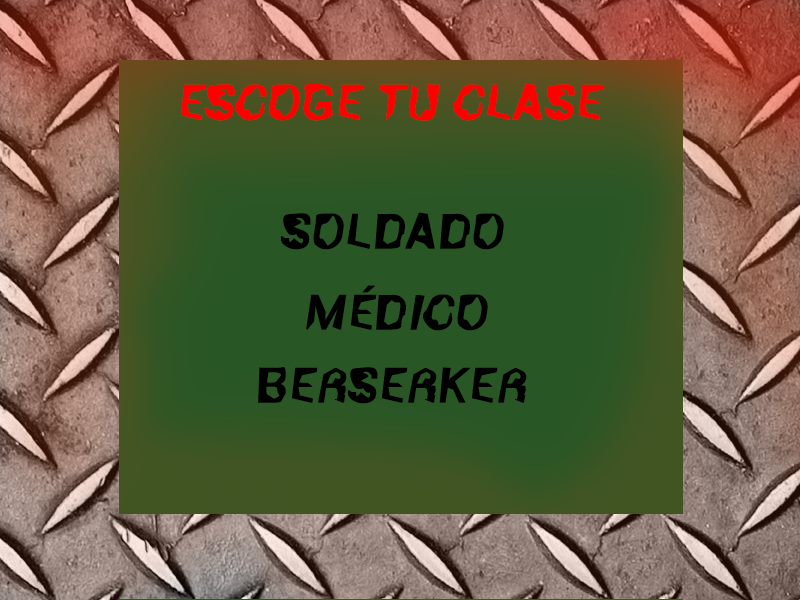
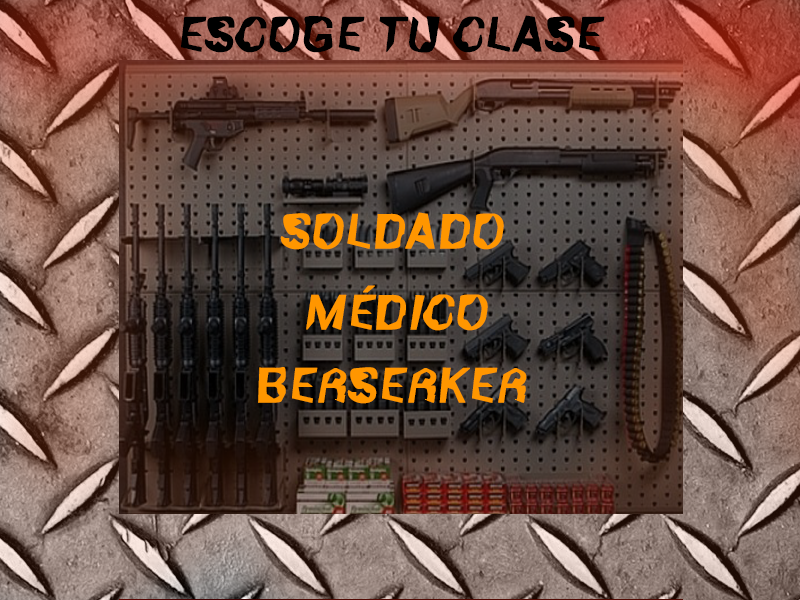
botones y fondos

diff --git a/src/assets/images/mapa.js b/src/assets/images/mapa.js
@@ -1,0 +1,45 @@
+(function(name,data){
+ if(typeof onTileMapLoaded === 'undefined') {
+  if(typeof TileMaps === 'undefined') TileMaps = {};
+  TileMaps[name] = data;
+ } else {
+  onTileMapLoaded(name,data);
+ }
+ if(typeof module === 'object' && module && module.exports) {
+  module.exports = data;
+ }})("mapa",
+{ "height":50,
+ "infinite":false,
+ "layers":[
+        {
+         "data":[1, 1, 1, 1, 1, 1, 1, 1, 1, 1, 1, 1, 1, 1, 1, 1, 1, 1, 1, 1, 1, 1, 1, 1, 1, 1, 1, 1, 1, 1, 1, 1, 1, 1, 1, 1, 1, 1, 1, 1, 1, 1, 1, 1, 1, 1, 1, 1, 1, 1, 1, 65, 66, 67, 68, 69, 70, 71, 72, 73, 74, 65, 66, 67, 68, 69, 70, 71, 72, 73, 1, 65, 66, 67, 68, 69, 70, 71, 72, 73, 74, 65, 66, 67, 68, 69, 70, 71, 72, 73, 74, 65, 66, 67, 68, 69, 70, 71, 72, 1, 1, 75, 76, 77, 78, 79, 80, 81, 82, 83, 84, 75, 76, 77, 78, 79, 80, 81, 82, 83, 1, 75, 76, 77, 78, 79, 80, 81, 82, 83, 84, 75, 76, 77, 78, 79, 80, 81, 82, 83, 84, 75, 76, 77, 78, 79, 80, 81, 82, 1, 1, 85, 86, 87, 88, 89, 90, 91, 92, 93, 94, 85, 86, 87, 88, 89, 90, 91, 92, 93, 1, 85, 86, 87, 88, 89, 90, 91, 92, 93, 94, 85, 86, 87, 88, 89, 90, 91, 92, 93, 94, 1, 1, 87, 88, 89, 90, 91, 92, 1, 1, 95, 96, 97, 98, 99, 100, 101, 102, 103, 104, 95, 96, 97, 98, 99, 100, 101, 102, 103, 1, 95, 96, 97, 98, 99, 100, 1, 1, 103, 104, 95, 96, 97, 98, 99, 100, 101, 102, 103, 104, 1, 1, 97, 98, 99, 100, 101, 102, 1, 1, 105, 106, 107, 108, 109, 110, 111, 112, 113, 114, 1, 1, 107, 108, 109, 110, 111, 112, 113, 1, 105, 106, 107, 108, 109, 110, 1, 1, 113, 114, 105, 106, 107, 108, 109, 110, 111, 112, 113, 114, 105, 106, 107, 108, 109, 110, 111, 112, 1, 1, 115, 116, 117, 118, 119, 120, 121, 122, 123, 124, 1, 1, 117, 118, 119, 120, 121, 122, 123, 1, 115, 116, 117, 118, 119, 120, 121, 122, 123, 124, 115, 116, 117, 118, 119, 120, 121, 122, 123, 124, 115, 116, 117, 118, 119, 120, 121, 122, 1, 1, 65, 66, 67, 68, 69, 70, 71, 72, 73, 74, 65, 66, 67, 68, 69, 70, 71, 72, 73, 1, 65, 66, 67, 68, 69, 70, 71, 72, 73, 74, 65, 66, 67, 68, 69, 70, 71, 72, 73, 74, 65, 66, 67, 68, 69, 70, 71, 72, 1, 1, 75, 76, 77, 78, 79, 80, 81, 82, 83, 84, 75, 76, 77, 78, 79, 80, 81, 82, 83, 1, 75, 76, 77, 78, 79, 80, 81, 82, 83, 84, 75, 76, 77, 78, 79, 80, 81, 82, 83, 84, 75, 76, 77, 78, 79, 80, 81, 82, 1, 1, 85, 86, 87, 88, 89, 90, 91, 92, 93, 94, 85, 86, 87, 88, 89, 90, 91, 92, 93, 1, 85, 86, 87, 88, 89, 90, 91, 92, 93, 94, 85, 86, 87, 88, 89, 90, 91, 92, 93, 94, 85, 86, 87, 88, 89, 90, 91, 92, 1, 1, 1, 1, 1, 1, 1, 1, 1, 1, 1, 1, 1, 1, 97, 98, 99, 1, 1, 1, 1, 1, 95, 96, 97, 1, 1, 1, 1, 1, 1, 1, 1, 1, 1, 1, 1, 1, 1, 1, 1, 1, 1, 1, 1, 1, 1, 100, 101, 102, 1, 1, 105, 106, 107, 108, 109, 110, 111, 112, 113, 114, 105, 106, 107, 108, 109, 110, 111, 112, 113, 114, 105, 106, 107, 1, 109, 110, 111, 112, 113, 114, 105, 106, 1, 1, 1, 1, 1, 112, 113, 114, 105, 106, 107, 108, 109, 110, 111, 112, 1, 1, 115, 116, 117, 118, 119, 120, 121, 122, 123, 124, 115, 116, 117, 118, 119, 120, 121, 122, 123, 124, 115, 116, 117, 1, 119, 120, 121, 122, 123, 124, 115, 116, 1, 1, 1, 1, 1, 122, 123, 124, 115, 116, 117, 118, 119, 120, 121, 122, 1, 1, 65, 66, 67, 68, 69, 70, 71, 72, 73, 74, 65, 66, 67, 68, 69, 70, 71, 72, 73, 74, 65, 66, 67, 1, 69, 70, 71, 72, 73, 74, 65, 66, 1, 1, 1, 1, 1, 72, 73, 74, 65, 66, 67, 68, 69, 70, 71, 72, 1, 1, 75, 76, 77, 78, 79, 80, 81, 82, 83, 84, 75, 76, 77, 78, 79, 80, 81, 82, 83, 84, 75, 76, 77, 1, 79, 80, 81, 82, 83, 84, 75, 76, 1, 1, 1, 1, 1, 82, 83, 84, 75, 76, 77, 78, 79, 80, 81, 82, 1, 1, 85, 86, 87, 88, 89, 90, 91, 92, 93, 94, 85, 86, 87, 88, 89, 90, 91, 92, 93, 94, 85, 86, 87, 1, 89, 90, 91, 92, 93, 94, 85, 86, 1, 1, 1, 1, 1, 92, 93, 94, 85, 86, 87, 88, 89, 90, 91, 92, 1, 1, 95, 96, 97, 98, 99, 1, 1, 1, 1, 104, 95, 96, 97, 98, 99, 100, 101, 102, 103, 104, 95, 96, 97, 1, 99, 100, 101, 102, 103, 104, 95, 96, 1, 1, 1, 1, 1, 102, 103, 104, 95, 96, 97, 98, 99, 100, 101, 102, 1, 1, 105, 106, 107, 108, 109, 1, 1, 1, 1, 114, 105, 106, 107, 108, 109, 110, 111, 112, 113, 114, 105, 106, 107, 1, 109, 110, 111, 112, 113, 114, 105, 106, 1, 1, 1, 1, 1, 112, 113, 114, 105, 106, 107, 108, 109, 110, 111, 112, 1, 1, 115, 116, 117, 118, 119, 1, 1, 1, 1, 124, 115, 116, 117, 118, 119, 120, 121, 122, 123, 124, 115, 116, 117, 1, 119, 120, 121, 122, 123, 124, 115, 116, 117, 118, 119, 120, 1, 122, 123, 124, 115, 116, 117, 118, 119, 120, 121, 122, 1, 1, 65, 66, 67, 68, 69, 1, 1, 1, 1, 74, 65, 66, 67, 68, 69, 70, 71, 72, 73, 74, 65, 66, 67, 1, 69, 70, 71, 72, 73, 74, 65, 66, 67, 68, 69, 70, 1, 72, 73, 74, 65, 66, 67, 68, 69, 70, 71, 72, 1, 1, 75, 76, 77, 78, 79, 1, 1, 1, 1, 84, 75, 76, 77, 78, 79, 80, 81, 82, 83, 84, 75, 76, 77, 1, 79, 80, 81, 82, 83, 84, 75, 76, 77, 78, 79, 80, 1, 82, 83, 84, 75, 76, 77, 78, 79, 80, 81, 82, 1, 1, 85, 86, 87, 88, 89, 1, 1, 1, 1, 94, 85, 86, 87, 88, 89, 90, 91, 92, 93, 94, 85, 86, 87, 1, 89, 90, 91, 92, 93, 94, 85, 86, 87, 88, 89, 90, 1, 92, 93, 94, 85, 86, 1, 1, 89, 90, 91, 92, 1, 1, 95, 96, 97, 98, 99, 1, 1, 1, 1, 104, 95, 96, 97, 98, 99, 100, 101, 102, 103, 104, 95, 96, 97, 1, 99, 100, 101, 102, 103, 1, 1, 96, 97, 98, 99, 100, 1, 102, 103, 104, 95, 96, 1, 1, 99, 100, 101, 102, 1, 1, 105, 106, 107, 108, 109, 1, 1, 1, 1, 114, 105, 106, 107, 108, 109, 110, 111, 112, 113, 114, 105, 106, 107, 1, 109, 110, 111, 112, 113, 1, 1, 106, 107, 108, 109, 110, 1, 112, 113, 114, 105, 106, 107, 108, 109, 110, 111, 112, 1, 1, 115, 116, 117, 118, 119, 120, 121, 122, 123, 124, 115, 116, 117, 1, 1, 120, 121, 122, 123, 124, 115, 116, 117, 1, 119, 120, 121, 122, 123, 124, 115, 116, 117, 118, 119, 120, 1, 122, 123, 124, 115, 116, 117, 118, 119, 120, 121, 122, 1, 1, 65, 66, 67, 68, 69, 70, 71, 72, 73, 74, 65, 66, 67, 1, 1, 70, 71, 72, 73, 74, 65, 66, 67, 1, 69, 70, 71, 72, 73, 74, 65, 66, 67, 68, 69, 70, 1, 72, 73, 74, 65, 66, 67, 68, 69, 70, 71, 72, 1, 1, 75, 76, 77, 78, 79, 80, 81, 82, 83, 84, 75, 76, 77, 78, 79, 80, 81, 82, 83, 84, 75, 76, 77, 78, 79, 80, 81, 82, 83, 84, 75, 76, 77, 78, 79, 80, 1, 82, 83, 84, 75, 76, 77, 78, 79, 80, 81, 82, 1, 1, 85, 86, 87, 88, 89, 90, 91, 92, 93, 94, 85, 86, 87, 88, 89, 90, 91, 92, 93, 94, 85, 86, 87, 88, 89, 90, 91, 92, 93, 94, 85, 86, 87, 88, 89, 90, 1, 92, 93, 94, 85, 86, 87, 88, 89, 90, 91, 92, 1, 1, 95, 96, 97, 98, 99, 100, 101, 102, 103, 104, 95, 96, 97, 98, 99, 100, 101, 102, 103, 104, 95, 96, 97, 98, 99, 100, 101, 102, 103, 104, 95, 96, 97, 98, 99, 100, 1, 102, 103, 104, 95, 96, 97, 98, 99, 100, 101, 102, 1, 1, 105, 106, 107, 108, 109, 110, 111, 112, 113, 114, 105, 106, 107, 108, 109, 110, 111, 112, 113, 114, 105, 106, 107, 1, 109, 110, 111, 112, 113, 114, 105, 106, 107, 108, 109, 110, 1, 112, 113, 114, 105, 106, 107, 108, 109, 110, 111, 112, 1, 1, 115, 116, 117, 118, 119, 120, 121, 122, 123, 124, 115, 116, 117, 118, 119, 120, 121, 122, 123, 124, 115, 116, 117, 1, 119, 120, 121, 122, 123, 124, 115, 116, 117, 118, 119, 120, 1, 1, 1, 1, 1, 116, 117, 118, 1, 1, 1, 1, 1, 1, 65, 66, 67, 68, 69, 70, 71, 72, 73, 74, 65, 66, 67, 68, 69, 70, 71, 72, 73, 74, 65, 66, 67, 1, 69, 70, 71, 72, 73, 74, 65, 66, 67, 68, 69, 70, 1, 72, 73, 74, 65, 66, 67, 68, 69, 70, 71, 72, 1, 1, 75, 76, 77, 78, 79, 80, 81, 82, 83, 84, 75, 76, 77, 78, 79, 80, 81, 82, 83, 84, 75, 76, 77, 1, 79, 80, 81, 82, 83, 84, 75, 76, 77, 78, 79, 80, 1, 82, 83, 84, 75, 76, 77, 78, 79, 80, 81, 82, 1, 1, 1, 1, 1, 1, 1, 1, 91, 92, 93, 1, 1, 1, 1, 1, 1, 1, 1, 1, 1, 1, 1, 1, 1, 1, 1, 1, 1, 1, 1, 1, 1, 1, 1, 1, 1, 1, 1, 92, 93, 94, 85, 86, 87, 88, 89, 90, 91, 92, 1, 1, 95, 96, 97, 98, 99, 100, 101, 102, 103, 104, 95, 96, 97, 98, 99, 100, 101, 102, 103, 104, 95, 96, 97, 98, 99, 100, 101, 102, 103, 104, 95, 96, 97, 98, 99, 100, 1, 102, 103, 104, 95, 96, 97, 98, 99, 100, 101, 102, 1, 1, 105, 106, 107, 108, 109, 110, 111, 112, 113, 114, 105, 106, 107, 108, 109, 110, 111, 112, 113, 114, 105, 106, 107, 108, 109, 110, 111, 112, 113, 114, 105, 106, 107, 108, 109, 110, 1, 112, 113, 114, 105, 106, 107, 108, 109, 110, 111, 112, 1, 1, 115, 116, 117, 118, 119, 120, 121, 122, 123, 124, 115, 116, 117, 118, 119, 120, 121, 122, 123, 124, 115, 116, 117, 118, 119, 120, 121, 122, 123, 124, 115, 116, 117, 118, 119, 120, 1, 122, 123, 124, 115, 116, 117, 118, 119, 120, 121, 122, 1, 1, 65, 66, 67, 68, 69, 70, 71, 72, 73, 74, 65, 66, 67, 68, 69, 70, 71, 72, 73, 74, 65, 66, 67, 68, 69, 70, 71, 72, 73, 74, 65, 66, 67, 68, 69, 70, 1, 72, 73, 74, 65, 66, 67, 68, 69, 70, 71, 72, 1, 1, 75, 76, 77, 78, 79, 80, 81, 1, 1, 84, 75, 76, 77, 78, 79, 80, 81, 82, 83, 84, 1, 1, 77, 78, 79, 80, 81, 82, 83, 84, 75, 76, 77, 78, 79, 80, 1, 82, 83, 84, 75, 76, 77, 78, 79, 80, 81, 82, 1, 1, 85, 86, 87, 88, 89, 90, 91, 1, 1, 94, 85, 86, 87, 88, 89, 90, 91, 92, 93, 94, 1, 1, 87, 88, 89, 90, 91, 92, 93, 94, 85, 86, 87, 88, 89, 90, 1, 92, 93, 94, 85, 86, 87, 88, 89, 90, 91, 92, 1, 1, 95, 96, 97, 98, 99, 100, 101, 102, 103, 104, 95, 96, 97, 98, 99, 100, 101, 102, 103, 104, 95, 96, 97, 98, 99, 100, 101, 102, 103, 104, 95, 96, 97, 98, 99, 100, 1, 102, 103, 104, 95, 96, 1, 1, 99, 100, 101, 102, 1, 1, 105, 106, 107, 108, 109, 110, 111, 112, 113, 114, 105, 106, 107, 108, 109, 110, 111, 112, 113, 114, 105, 106, 107, 108, 109, 110, 111, 112, 113, 114, 105, 106, 107, 108, 109, 110, 1, 112, 113, 114, 105, 106, 1, 1, 109, 110, 111, 112, 1, 1, 115, 116, 117, 118, 119, 120, 121, 122, 123, 124, 115, 116, 117, 118, 119, 120, 121, 122, 123, 124, 115, 116, 117, 118, 119, 120, 121, 122, 123, 124, 115, 116, 117, 118, 119, 120, 1, 122, 123, 124, 115, 116, 117, 118, 119, 120, 121, 122, 1, 1, 65, 66, 67, 68, 69, 70, 71, 72, 73, 74, 65, 66, 67, 68, 69, 70, 71, 72, 73, 74, 65, 66, 67, 68, 69, 70, 71, 72, 73, 74, 65, 66, 67, 68, 69, 70, 1, 72, 73, 74, 65, 66, 67, 68, 69, 70, 71, 72, 1, 1, 1, 1, 1, 1, 79, 80, 81, 82, 83, 84, 75, 76, 77, 78, 79, 80, 81, 82, 83, 84, 75, 76, 77, 78, 79, 80, 81, 82, 1, 1, 75, 76, 77, 78, 79, 80, 1, 82, 83, 84, 75, 76, 77, 78, 79, 80, 81, 82, 1, 1, 1, 1, 1, 1, 89, 90, 91, 92, 93, 94, 85, 86, 87, 88, 89, 90, 91, 92, 93, 94, 85, 86, 87, 88, 89, 90, 91, 92, 1, 1, 85, 86, 87, 88, 89, 90, 91, 92, 93, 94, 85, 86, 87, 88, 89, 90, 91, 92, 1, 1, 1, 1, 1, 1, 99, 100, 101, 102, 103, 104, 95, 96, 97, 98, 99, 100, 101, 102, 103, 104, 95, 96, 97, 98, 99, 100, 101, 102, 103, 104, 95, 96, 97, 98, 99, 100, 101, 102, 103, 104, 95, 96, 97, 98, 99, 100, 101, 102, 1, 1, 1, 1, 1, 1, 109, 110, 111, 112, 113, 114, 105, 106, 107, 108, 109, 110, 111, 112, 113, 114, 105, 106, 107, 108, 109, 110, 111, 112, 113, 114, 105, 106, 107, 108, 109, 110, 111, 112, 113, 114, 105, 106, 107, 108, 109, 110, 111, 112, 1, 1, 1, 1, 1, 1, 119, 120, 121, 122, 123, 124, 115, 116, 117, 118, 119, 120, 121, 122, 123, 124, 115, 116, 117, 118, 119, 120, 121, 122, 123, 124, 115, 116, 117, 118, 119, 120, 1, 122, 123, 124, 115, 116, 117, 118, 119, 120, 121, 122, 1, 1, 1, 1, 1, 1, 1, 1, 1, 1, 1, 1, 1, 1, 1, 1, 1, 1, 1, 1, 1, 1, 1, 1, 1, 1, 1, 1, 1, 1, 1, 1, 1, 1, 1, 1, 1, 1, 1, 1, 1, 1, 1, 1, 1, 1, 1, 1, 1, 1, 1],
+         "height":50,
+         "id":1,
+         "name":"Capa de Patrones 1",
+         "opacity":1,
+         "type":"tilelayer",
+         "visible":true,
+         "width":50,
+         "x":0,
+         "y":0
+        }],
+ "nextlayerid":3,
+ "nextobjectid":9,
+ "orientation":"orthogonal",
+ "renderorder":"right-down",
+ "tiledversion":"1.2.0",
+ "tileheight":128,
+ "tilesets":[
+        {
+         "firstgid":1,
+         "source":"..\/..\/..\/..\/walls-128x128.tsx"
+        }, 
+        {
+         "firstgid":65,
+         "source":"..\/..\/..\/..\/asfalto.tsx"
+        }],
+ "tilewidth":128,
+ "type":"map",
+ "version":1.2,
+ "width":50
+});

diff --git a/src/js/main.js b/src/js/main.js
@@ -1,6 +1,6 @@
 'use strict';
 
-//var PlayScene = require('./play_scene.js');
+var PlayScene = require('./play_scene.js');
 var MainMenu = require('./MainMenu.js');
 
 var BootScene = {
@@ -23,18 +23,30 @@ var PreloaderScene = {
     this.load.setPreloadSprite(this.loadingBar);
 
     // TODO: load here the assets for the game
-    //this.game.load.image('prueba', '../assets/images/prueba.jpg');
+    
     //images
-    //this.game.load.image('menuPrincipal','../assets/images/menu.png');
+    /*this.game.load.image('prueba', '../assets/images/prueba.jpg');
+    this.game.load.image('menuPrincipal','../assets/images/menu.png');
+    this.game.load.image('gameover','../assets/images/gameover.png');
+    this.game.load.image('submenu','../assets/images/submenu.png');
     //music
-    //this.game.load.audio('musicaFondo','../assets/sounds/Pentagram.mp3');
+    this.game.load.audio('musicaFondo','../assets/sounds/Pentagram.mp3');
+    this.game.load.audio('musicaAccion','../assets/sounds/HeavyAction.mp3');
+    this.game.load.audio('musicaMenu','../assets/sounds/ZombieRock.mp3');
+    this.game.load.audio('Zhola','../assets/sounds/zombihola.wav');
+    this.game.load.audio('Zdolor','../assets/sounds/zombidolor.mp3');
+    this.game.load.audio('shotgun1','../assets/sounds/shotgun.wav');
+    this.game.load.audio('shotgun2','../assets/sounds/shotgun+Reload.wav');
+    this.game.load.audio('Pdolor','../assets/sounds/pain.wav');*/
+
   },
 
   create: function () {
     //this.game.state.start('play');
-    this.game.state.start('menu');
+    this.game.state.start('menu');//esto lleva al js main menu
   }
 };
+
 
 
 window.onload = function () {
@@ -42,7 +54,7 @@ window.onload = function () {
 
   game.state.add('boot', BootScene);
   game.state.add('preloader', PreloaderScene);
-  //game.state.add('play', PlayScene);
+  game.state.add('play', PlayScene);
   game.state.add('menu',MainMenu);
 
   game.state.start('boot');

diff --git a/src/js/MainMenu.js b/src/js/MainMenu.js
@@ -1,15 +1,27 @@
 'use strict';
+var PlayScene = require('./play_scene.js');
 var Menu = {
 	preload: function(){
     this.game.load.image('menu','./assets/images/menu.png');
     this.game.load.audio('musicaFondo','../assets/sounds/ZombieRock.mp3');
+    this.game.load.image('playbutton','../assets/images/playbutton.png');
   },
-  create: function () {
+  
+  create: function() {
    var fondo = this.game.add.sprite(this.game.world.centerX, this.game.world.centerY, 'menu');
    this.game.add.audio('musicaFondo').loopFull(1);
-  fondo.anchor.setTo(0.5, 0.5);
-   },
+   fondo.anchor.setTo(0.5, 0.5);
+   var playbutton = new Button(game, 400, 300,'playbutton', actionOnClick,/* this,0,0,0,0*/);
+   playbutton.anchor.setTo(0.5,0.3);
+  },
+  function actionOnClick () {
 
+    console.log('button clicked');
+    game.state.start('play');
 
+}
+  
+   	
+   
 };
 module.exports = Menu;

diff --git a/src/assets/images/walls-128x128.tsx b/src/assets/images/walls-128x128.tsx
@@ -1,0 +1,9 @@
+<?xml version="1.0" encoding="UTF-8"?>
+<tileset version="1.2" tiledversion="1.2.0" name="walls-128x128" tilewidth="128" tileheight="128" tilecount="64" columns="8">
+ <image source="KiwiGames/src/assets/images/walls-128x128.png" width="1024" height="1024"/>
+ <tile id="0">
+  <objectgroup draworder="index">
+   <object id="5" x="1" y="0" width="126" height="128"/>
+  </objectgroup>
+ </tile>
+</tileset>

diff --git a/src/assets/images/floorZ.tsx b/src/assets/images/floorZ.tsx
@@ -1,0 +1,4 @@
+<?xml version="1.0" encoding="UTF-8"?>
+<tileset version="1.2" tiledversion="1.2.0" name="floorZ" tilewidth="128" tileheight="128" tilecount="4" columns="2">
+ <image source="KiwiGames/src/assets/images/floorZ.png" width="256" height="256"/>
+</tileset>
